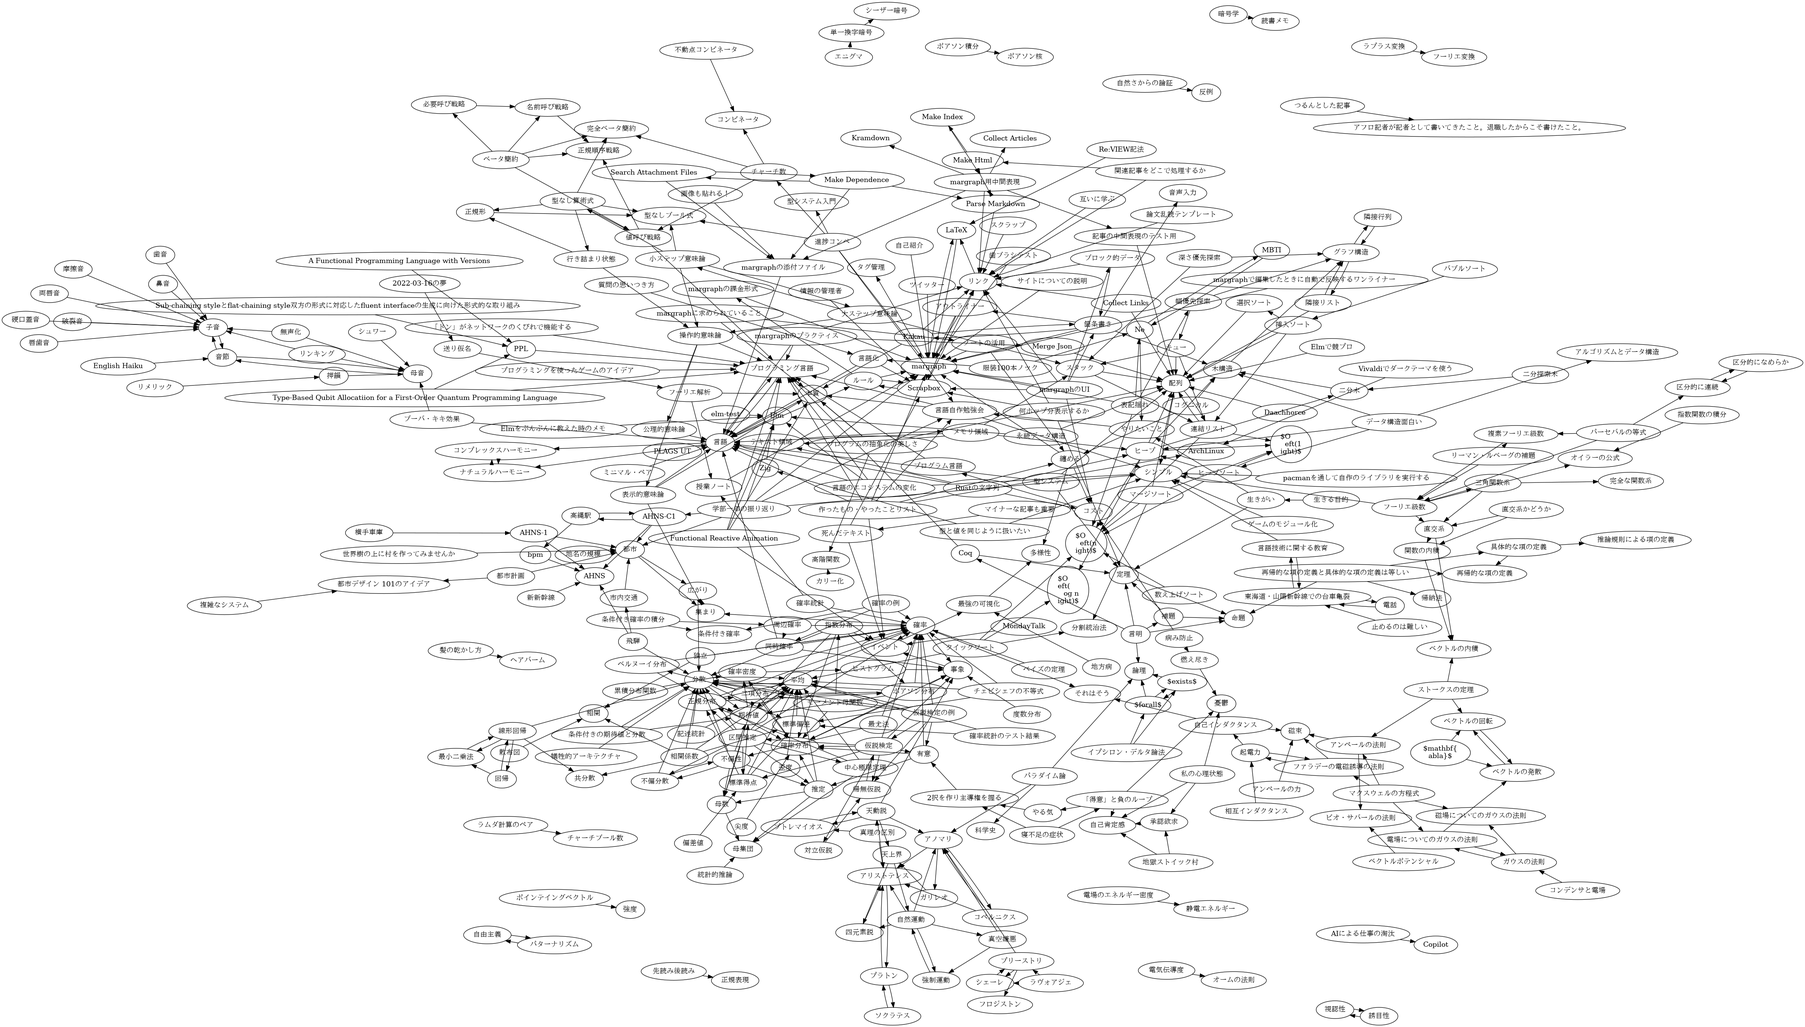
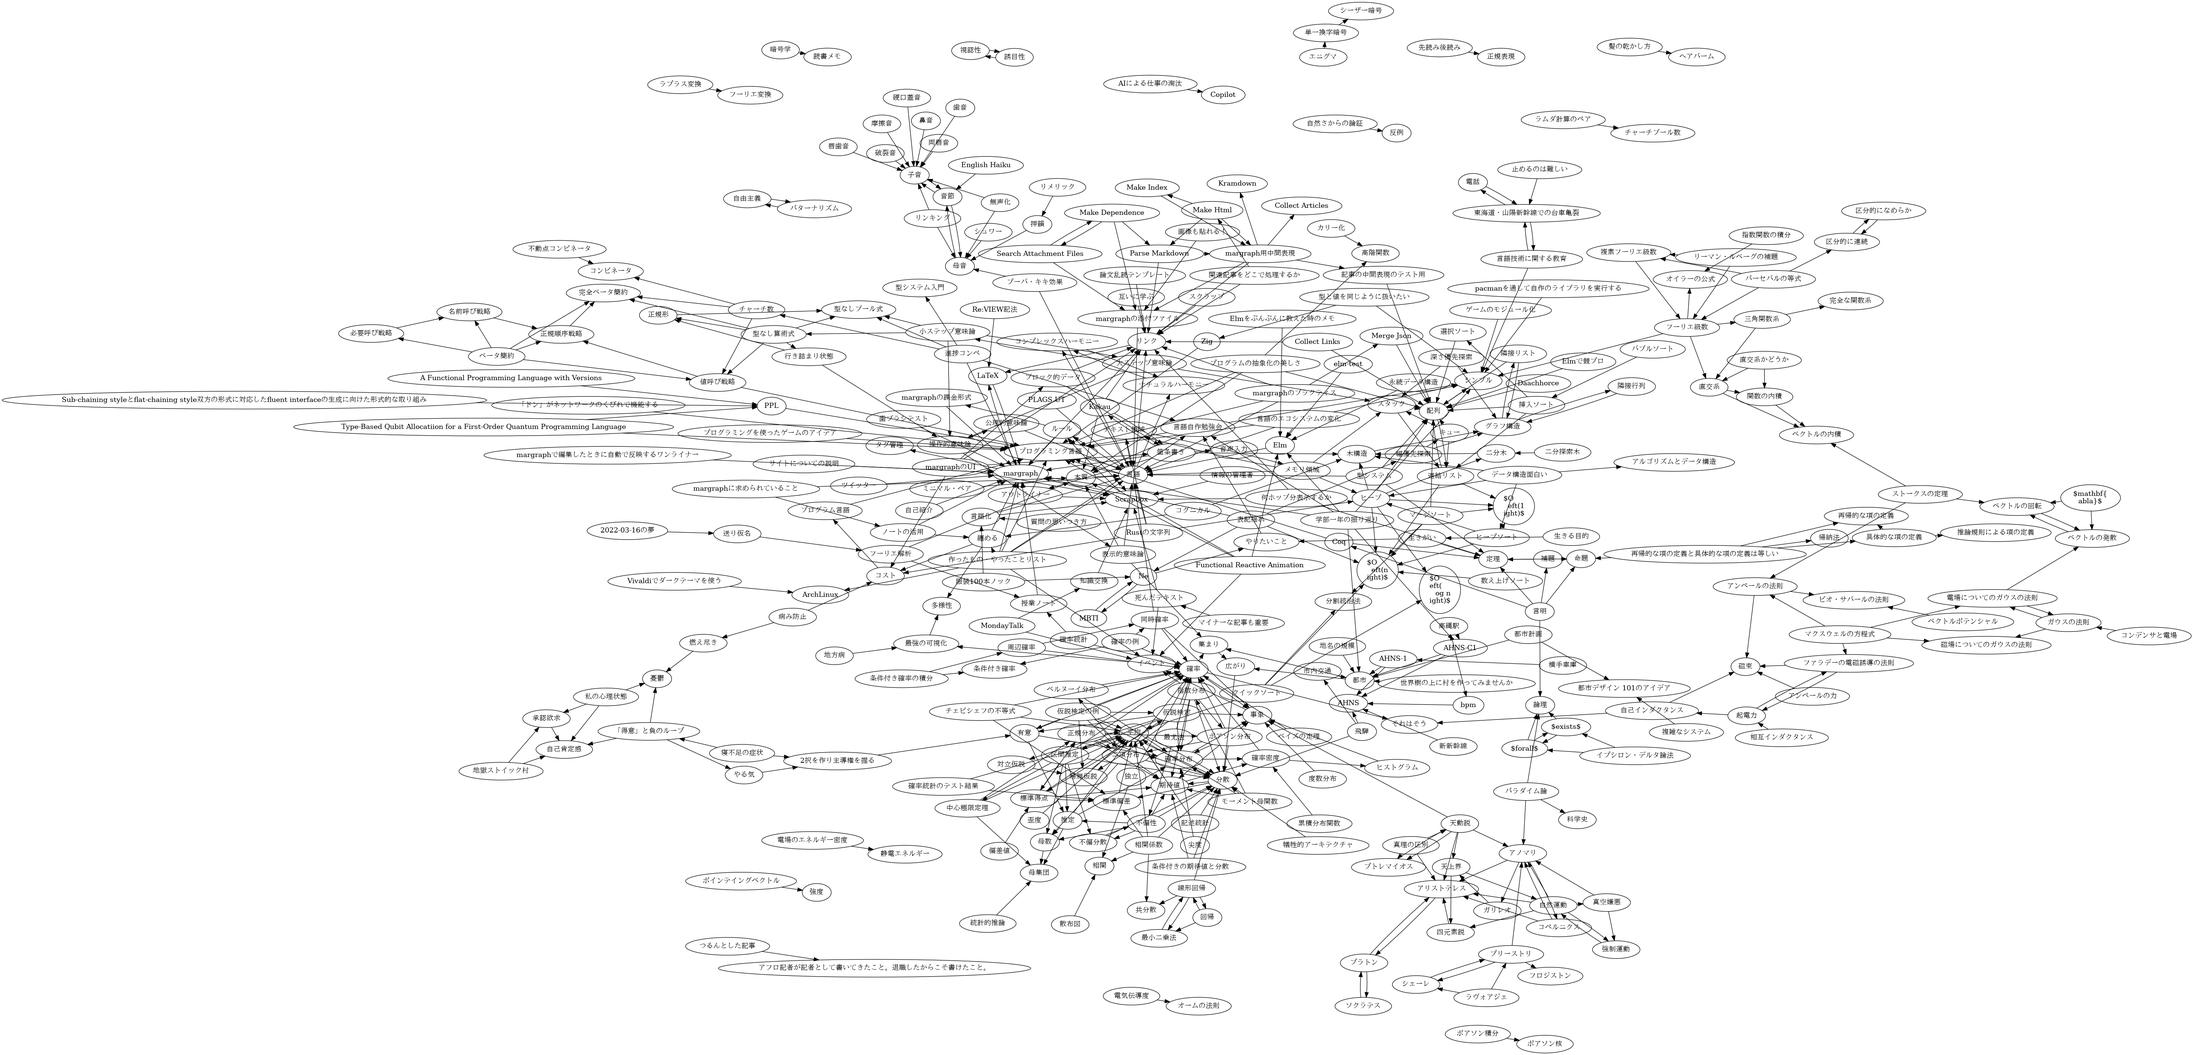
deploy: bc9a7a7c9fee611f8858cafcb26270d9959ed586

diff --git a/other/knowledge-exchange.html b/other/knowledge-exchange.html
@@ -7,7 +7,7 @@
     <link rel="stylesheet" href="https://cdn.jsdelivr.net/npm/bootstrap-dark-5@1.1.3/dist/css/bootstrap-nightfall.min.css" media="(prefers-color-scheme: dark)">
     <link rel="stylesheet" href="https://cdnjs.cloudflare.com/ajax/libs/highlight.js/11.3.1/styles/base16/ashes.min.css">
     <link rel="stylesheet" href="../style.css" type="text/css">
-    <title>MondayTalk</title>
+    <title>知識交換</title>
   </head>
   <body>
     
@@ -19,34 +19,38 @@
           
             <li class="breadcrumb-item"><a href="../other/index.html">other</a></li>
           
-          <li class="breadcrumb-item">MondayTalk</li>
+          <li class="breadcrumb-item">知識交換</li>
         </ol>
       </div>
     </nav>
 
     <article class="container" style="max-width: 40em;">
 
-      <h1>MondayTalk</h1>
+      <h1>知識交換</h1>
 
       
         <div class="contents">
         
             
               <div><ul>
-  <li>Zliの定期的な<a href="../other/event.html">イベント</a>としてやってみてる</li>
-  <li>LT会よりもかんたんに、技術について話し合う場
+  <li>あるAについての知識を持った人と、Bの知識を持った人で、互いに知ってる内容を伝え合う</li>
+  <li>メリット
     <ul>
-      <li><a href="../other/event.html">イベント</a>のためのスライド作りはやらない</li>
-      <li>事前に他の目的で纏めたものはOK</li>
+      <li>双方にとって、知らない知識を噛み砕いた状態で得られる</li>
+      <li>疑問に思ったら質問もできる</li>
     </ul>
   </li>
-  <li>最低興行人数は2人、できれば3人</li>
-  <li>人が多くなったら、時間制限をつける
+  <li>知識交換をするには、相手よりもある分野の知識を多く持つ必要がある
     <ul>
-      <li>8人とかになったら、1人10分とか</li>
+      <li>最初は知識交換の場に就くために、他の人が知らない知識を溜め込むべき</li>
+      <li>人の少ない分野に飛び込めば、みんなが知らない知識を得られる</li>
     </ul>
   </li>
-  <li><a href="../other/knowledge-exchange.html">知識交換</a>の場として提供したい</li>
+  <li>https://scrapbox.io/nishio/知識交換の必要条件
+    <ul>
+      <li>西尾さんの<a href="../long-tweets/2021-11-02.html">Scrapbox</a>、とてもいい記事が転がってて参考になる</li>
+    </ul>
+  </li>
 </ul>
 </div>
             
@@ -67,7 +71,7 @@
             <div class="col">
               
                 前の記事<br />
-                <a href="../other/miso-shiru.html">みそ汁</a>
+                <a href="../other/kajou.html">箇条書き</a>
               
             </div>
             <div class="col">
@@ -79,7 +83,7 @@
             <div class="col">
               
                 次の記事<br />
-                <a href="../other/movie.html">動画編集</a>
+                <a href="../other/language.html">言語</a>
               
             </div>
           </div>
@@ -88,7 +92,7 @@
 
       <div class="d-flex flex-row-reverse">
         
-          <button type="button" class="btn btn-outline-primary btn-sm" onclick="window.location.href='https://github.com/soukouki/margraph/edit/master/src/other/monday-talk.md';">Edit</button>
+          <button type="button" class="btn btn-outline-primary btn-sm" onclick="window.location.href='https://github.com/soukouki/margraph/edit/master/src/other/knowledge-exchange.md';">Edit</button>
         
         
       </div>
@@ -100,8 +104,8 @@
             <div class="col-4">
               <div class="card h-100">
                 <div class="card-body">
-                  <h5 class="card-title fs-6"><a href="../other/event.html">イベント</a></h5>
-                  <p class="card-text">イベントは内向的な理由で行うべきだ、と言う主張について - 内...</p>
+                  <h5 class="card-title fs-6"><a href="../long-tweets/2021-11-02.html">Scrapbox</a></h5>
+                  <p class="card-text">Scrapboxの哲学みたいなページを読んでるけど、ページ間の...</p>
                 </div>
               </div>
             </div>
@@ -109,8 +113,8 @@
               <div class="col-4">
                 <div class="card h-100">
                   <div class="card-body">
-                    <h5 class="card-title fs-6"><a href="../scraps/saikyo-kashika.html">最強の可視化</a></h5>
-                    <p class="card-text">SNSやYouTubeによって一番強いものが分かってしまうこと...</p>
+                    <h5 class="card-title fs-6"><a href="../margraph/margraph-junban.html">リンク</a></h5>
+                    <p class="card-text">- コードブロック中ではリンクしない方がいい   - LaTe...</p>
                   </div>
                 </div>
               </div>
@@ -118,8 +122,8 @@
               <div class="col-4">
                 <div class="card h-100">
                   <div class="card-body">
-                    <h5 class="card-title fs-6"><a href="../2-what-i-did.html">作ったもの・やったことリスト</a></h5>
-                    <p class="card-text">- 各種Lightning Talkイベントへの登壇   - ...</p>
+                    <h5 class="card-title fs-6"><a href="../other/rule.html">ルール</a></h5>
+                    <p class="card-text">- 人が増えるとどうせ守られなくなるもの   - 人が多いノー...</p>
                   </div>
                 </div>
               </div>
@@ -127,8 +131,8 @@
               <div class="col-4">
                 <div class="card h-100">
                   <div class="card-body">
-                    <h5 class="card-title fs-6"><a href="../math/probability-statistics/11-probability.html">確率</a></h5>
-                    <p class="card-text">- $0 \leq P(A_i) \leq 1$   - $A...</p>
+                    <h5 class="card-title fs-6"><a href="../margraph/01-note.html">margraph</a></h5>
+                    <p class="card-text">named by sizumita - Scrapboxがgo...</p>
                   </div>
                 </div>
               </div>
@@ -136,8 +140,8 @@
               <div class="col-4">
                 <div class="card h-100">
                   <div class="card-body">
-                    <h5 class="card-title fs-6"><a href="../math/probability-statistics/12-event.html">事象</a></h5>
-                    <p class="card-text">- イベント - 起こる集合 - $A_i$ はそれぞれ排反で...</p>
+                    <h5 class="card-title fs-6"><a href="../margraph/margraph-ui.html">margraphのUI</a></h5>
+                    <p class="card-text">- 情報密度は上げたい - Scrapboxではリンクやタグを...</p>
                   </div>
                 </div>
               </div>
@@ -145,8 +149,8 @@
               <div class="col-4">
                 <div class="card h-100">
                   <div class="card-body">
-                    <h5 class="card-title fs-6"><a href="../math/probability-statistics/31-exponential-dist.html">指数分布</a></h5>
-                    <p class="card-text">- $f(x)  \lambda \exp(- \lambda...</p>
+                    <h5 class="card-title fs-6"><a href="../margraph/design/201-num-of-hops.html">何ホップ分表示するか</a></h5>
+                    <p class="card-text">関連項目として、何ホップ分表示させるか - Scrapboxで...</p>
                   </div>
                 </div>
               </div>
@@ -163,8 +167,26 @@
               <div class="col-4">
                 <div class="card h-100">
                   <div class="card-body">
-                    <h5 class="card-title fs-6"><a href="../theses/functional-reactive-animation.html">Functional Reactive Animation</a></h5>
-                    <p class="card-text">ElmのTEAの元となった論文(今となってはだいぶ離れてるらし...</p>
+                    <h5 class="card-title fs-6"><a href="../other/gengoka.html">言語化</a></h5>
+                    <p class="card-text">- 今まで曖昧に捉えていたモノや概念を、言葉にして書き出すこと...</p>
+                  </div>
+                </div>
+              </div>
+            
+              <div class="col-4">
+                <div class="card h-100">
+                  <div class="card-body">
+                    <h5 class="card-title fs-6"><a href="../other/outliner.html">アウトライナー</a></h5>
+                    <p class="card-text">- 章立てとかの全体的な構造を定めてから、細部の文章を追加して...</p>
+                  </div>
+                </div>
+              </div>
+            
+              <div class="col-4">
+                <div class="card h-100">
+                  <div class="card-body">
+                    <h5 class="card-title fs-6"><a href="../scraps/admin-of-infomation.html">情報の管理者</a></h5>
+                    <p class="card-text">- Scrapboxのような情報を共有するツールを組織で使おう...</p>
                   </div>
                 </div>
               </div>
@@ -175,8 +197,8 @@
             <div class="col-4">
               <div class="card h-100">
                 <div class="card-body">
-                  <h5 class="card-title fs-6"><a href="../other/knowledge-exchange.html">知識交換</a></h5>
-                  <p class="card-text">- あるAについての知識を持った人と、Bの知識を持った人で、互...</p>
+                  <h5 class="card-title fs-6"><a href="../other/monday-talk.html">MondayTalk</a></h5>
+                  <p class="card-text">- Zliの定期的なイベントとしてやってみてる - LT会より...</p>
                 </div>
               </div>
             </div>
@@ -184,8 +206,8 @@
               <div class="col-4">
                 <div class="card h-100">
                   <div class="card-body">
-                    <h5 class="card-title fs-6"><a href="../long-tweets/2021-11-02.html">Scrapbox</a></h5>
-                    <p class="card-text">Scrapboxの哲学みたいなページを読んでるけど、ページ間の...</p>
+                    <h5 class="card-title fs-6"><a href="../other/event.html">イベント</a></h5>
+                    <p class="card-text">イベントは内向的な理由で行うべきだ、と言う主張について - 内...</p>
                   </div>
                 </div>
               </div>

diff --git a/long-tweets/2021-11-02.html b/long-tweets/2021-11-02.html
@@ -512,6 +512,27 @@
             <div class="col-4">
               <div class="card h-100">
                 <div class="card-body">
+                  <h5 class="card-title fs-6"><a href="../other/knowledge-exchange.html">知識交換</a></h5>
+                  <p class="card-text">- あるAについての知識を持った人と、Bの知識を持った人で、互...</p>
+                </div>
+              </div>
+            </div>
+            
+              <div class="col-4">
+                <div class="card h-100">
+                  <div class="card-body">
+                    <h5 class="card-title fs-6"><a href="../other/monday-talk.html">MondayTalk</a></h5>
+                    <p class="card-text">- Zliの定期的なイベントとしてやってみてる - LT会より...</p>
+                  </div>
+                </div>
+              </div>
+            
+          </div>
+        
+          <div class="row flex-nowrap overflow-auto">
+            <div class="col-4">
+              <div class="card h-100">
+                <div class="card-body">
                   <h5 class="card-title fs-6"><a href="../other/outliner.html">アウトライナー</a></h5>
                   <p class="card-text">- 章立てとかの全体的な構造を定めてから、細部の文章を追加して...</p>
                 </div>

diff --git a/margraph/design/201-num-of-hops.html b/margraph/design/201-num-of-hops.html
@@ -161,6 +161,15 @@
               <div class="col-4">
                 <div class="card h-100">
                   <div class="card-body">
+                    <h5 class="card-title fs-6"><a href="../../other/knowledge-exchange.html">知識交換</a></h5>
+                    <p class="card-text">- あるAについての知識を持った人と、Bの知識を持った人で、互...</p>
+                  </div>
+                </div>
+              </div>
+            
+              <div class="col-4">
+                <div class="card h-100">
+                  <div class="card-body">
                     <h5 class="card-title fs-6"><a href="../../other/outliner.html">アウトライナー</a></h5>
                     <p class="card-text">- 章立てとかの全体的な構造を定めてから、細部の文章を追加して...</p>
                   </div>

diff --git a/margraph/margraph-junban.html b/margraph/margraph-junban.html
@@ -180,6 +180,15 @@
               <div class="col-4">
                 <div class="card h-100">
                   <div class="card-body">
+                    <h5 class="card-title fs-6"><a href="../other/knowledge-exchange.html">知識交換</a></h5>
+                    <p class="card-text">- あるAについての知識を持った人と、Bの知識を持った人で、互...</p>
+                  </div>
+                </div>
+              </div>
+            
+              <div class="col-4">
+                <div class="card h-100">
+                  <div class="card-body">
                     <h5 class="card-title fs-6"><a href="../other/outliner.html">アウトライナー</a></h5>
                     <p class="card-text">- 章立てとかの全体的な構造を定めてから、細部の文章を追加して...</p>
                   </div>

diff --git a/margraph/margraph-ui.html b/margraph/margraph-ui.html
@@ -166,6 +166,15 @@
               <div class="col-4">
                 <div class="card h-100">
                   <div class="card-body">
+                    <h5 class="card-title fs-6"><a href="../other/knowledge-exchange.html">知識交換</a></h5>
+                    <p class="card-text">- あるAについての知識を持った人と、Bの知識を持った人で、互...</p>
+                  </div>
+                </div>
+              </div>
+            
+              <div class="col-4">
+                <div class="card h-100">
+                  <div class="card-body">
                     <h5 class="card-title fs-6"><a href="../other/outliner.html">アウトライナー</a></h5>
                     <p class="card-text">- 章立てとかの全体的な構造を定めてから、細部の文章を追加して...</p>
                   </div>

diff --git a/other/dead-text.html b/other/dead-text.html
@@ -160,6 +160,15 @@
               <div class="col-4">
                 <div class="card h-100">
                   <div class="card-body">
+                    <h5 class="card-title fs-6"><a href="../other/knowledge-exchange.html">知識交換</a></h5>
+                    <p class="card-text">- あるAについての知識を持った人と、Bの知識を持った人で、互...</p>
+                  </div>
+                </div>
+              </div>
+            
+              <div class="col-4">
+                <div class="card h-100">
+                  <div class="card-body">
                     <h5 class="card-title fs-6"><a href="../other/outliner.html">アウトライナー</a></h5>
                     <p class="card-text">- 章立てとかの全体的な構造を定めてから、細部の文章を追加して...</p>
                   </div>

diff --git a/other/gengoka.html b/other/gengoka.html
@@ -340,6 +340,15 @@
               <div class="col-4">
                 <div class="card h-100">
                   <div class="card-body">
+                    <h5 class="card-title fs-6"><a href="../other/knowledge-exchange.html">知識交換</a></h5>
+                    <p class="card-text">- あるAについての知識を持った人と、Bの知識を持った人で、互...</p>
+                  </div>
+                </div>
+              </div>
+            
+              <div class="col-4">
+                <div class="card h-100">
+                  <div class="card-body">
                     <h5 class="card-title fs-6"><a href="../other/outliner.html">アウトライナー</a></h5>
                     <p class="card-text">- 章立てとかの全体的な構造を定めてから、細部の文章を追加して...</p>
                   </div>

diff --git a/other/rule.html b/other/rule.html
@@ -171,6 +171,15 @@
               <div class="col-4">
                 <div class="card h-100">
                   <div class="card-body">
+                    <h5 class="card-title fs-6"><a href="../other/knowledge-exchange.html">知識交換</a></h5>
+                    <p class="card-text">- あるAについての知識を持った人と、Bの知識を持った人で、互...</p>
+                  </div>
+                </div>
+              </div>
+            
+              <div class="col-4">
+                <div class="card h-100">
+                  <div class="card-body">
                     <h5 class="card-title fs-6"><a href="../other/outliner.html">アウトライナー</a></h5>
                     <p class="card-text">- 章立てとかの全体的な構造を定めてから、細部の文章を追加して...</p>
                   </div>

diff --git a/scraps/admin-of-infomation.html b/scraps/admin-of-infomation.html
@@ -167,6 +167,15 @@
               <div class="col-4">
                 <div class="card h-100">
                   <div class="card-body">
+                    <h5 class="card-title fs-6"><a href="../other/knowledge-exchange.html">知識交換</a></h5>
+                    <p class="card-text">- あるAについての知識を持った人と、Bの知識を持った人で、互...</p>
+                  </div>
+                </div>
+              </div>
+            
+              <div class="col-4">
+                <div class="card h-100">
+                  <div class="card-body">
                     <h5 class="card-title fs-6"><a href="../other/outliner.html">アウトライナー</a></h5>
                     <p class="card-text">- 章立てとかの全体的な構造を定めてから、細部の文章を追加して...</p>
                   </div>

diff --git a/margraph/01-note.html b/margraph/01-note.html
@@ -173,6 +173,15 @@
               <div class="col-4">
                 <div class="card h-100">
                   <div class="card-body">
+                    <h5 class="card-title fs-6"><a href="../other/knowledge-exchange.html">知識交換</a></h5>
+                    <p class="card-text">- あるAについての知識を持った人と、Bの知識を持った人で、互...</p>
+                  </div>
+                </div>
+              </div>
+            
+              <div class="col-4">
+                <div class="card h-100">
+                  <div class="card-body">
                     <h5 class="card-title fs-6"><a href="../scraps/admin-of-infomation.html">情報の管理者</a></h5>
                     <p class="card-text">- Scrapboxのような情報を共有するツールを組織で使おう...</p>
                   </div>

diff --git a/other/outliner.html b/other/outliner.html
@@ -328,6 +328,15 @@
               <div class="col-4">
                 <div class="card h-100">
                   <div class="card-body">
+                    <h5 class="card-title fs-6"><a href="../other/knowledge-exchange.html">知識交換</a></h5>
+                    <p class="card-text">- あるAについての知識を持った人と、Bの知識を持った人で、互...</p>
+                  </div>
+                </div>
+              </div>
+            
+              <div class="col-4">
+                <div class="card h-100">
+                  <div class="card-body">
                     <h5 class="card-title fs-6"><a href="../scraps/admin-of-infomation.html">情報の管理者</a></h5>
                     <p class="card-text">- Scrapboxのような情報を共有するツールを組織で使おう...</p>
                   </div>

diff --git a/other/event.html b/other/event.html
@@ -506,6 +506,15 @@
               </div>
             </div>
             
+              <div class="col-4">
+                <div class="card h-100">
+                  <div class="card-body">
+                    <h5 class="card-title fs-6"><a href="../other/knowledge-exchange.html">知識交換</a></h5>
+                    <p class="card-text">- あるAについての知識を持った人と、Bの知識を持った人で、互...</p>
+                  </div>
+                </div>
+              </div>
+            
           </div>
         
           <div class="row flex-nowrap overflow-auto">
